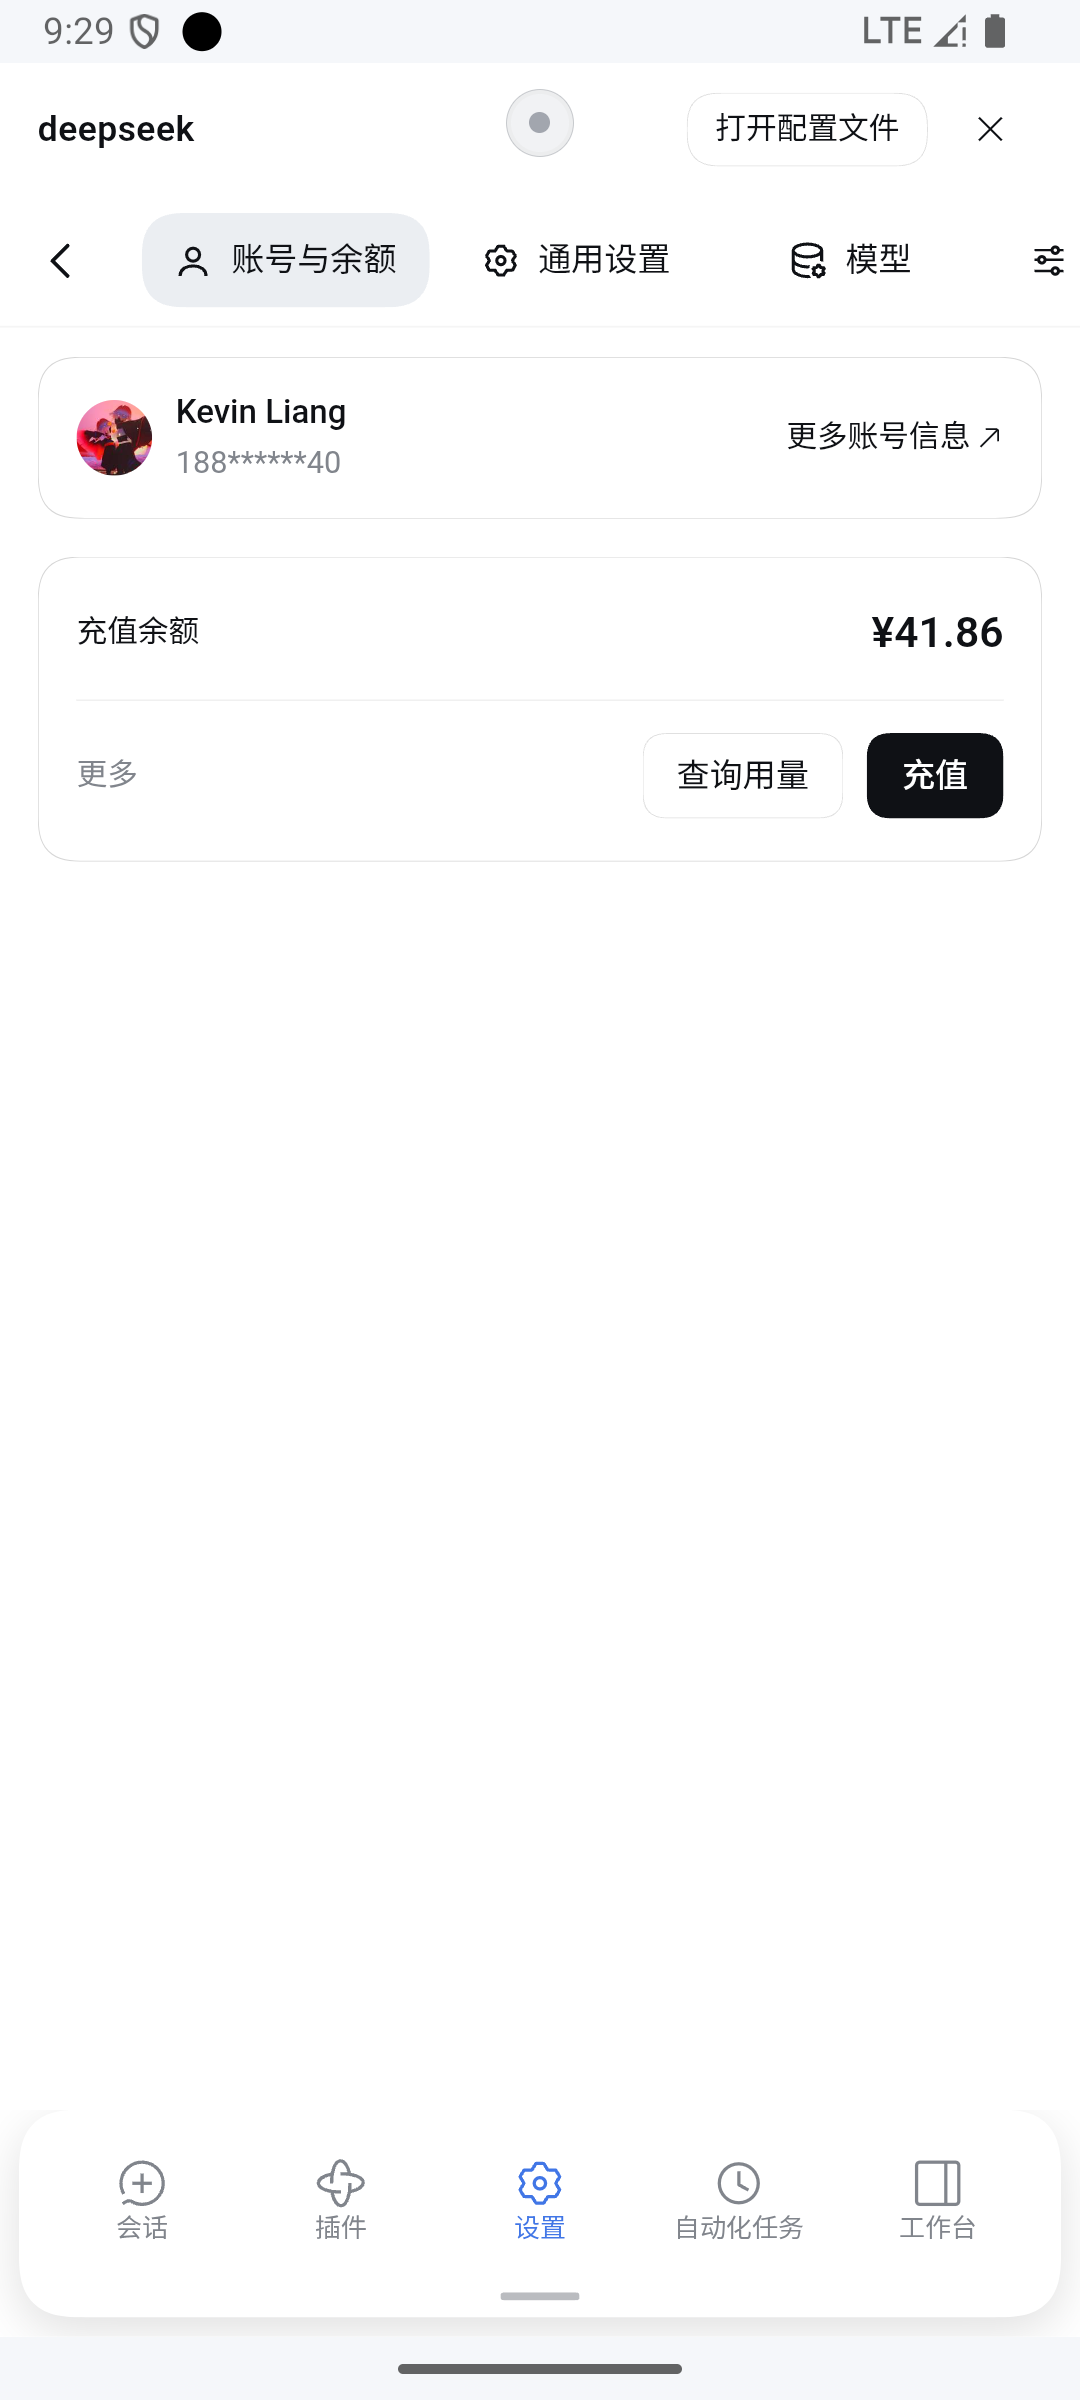
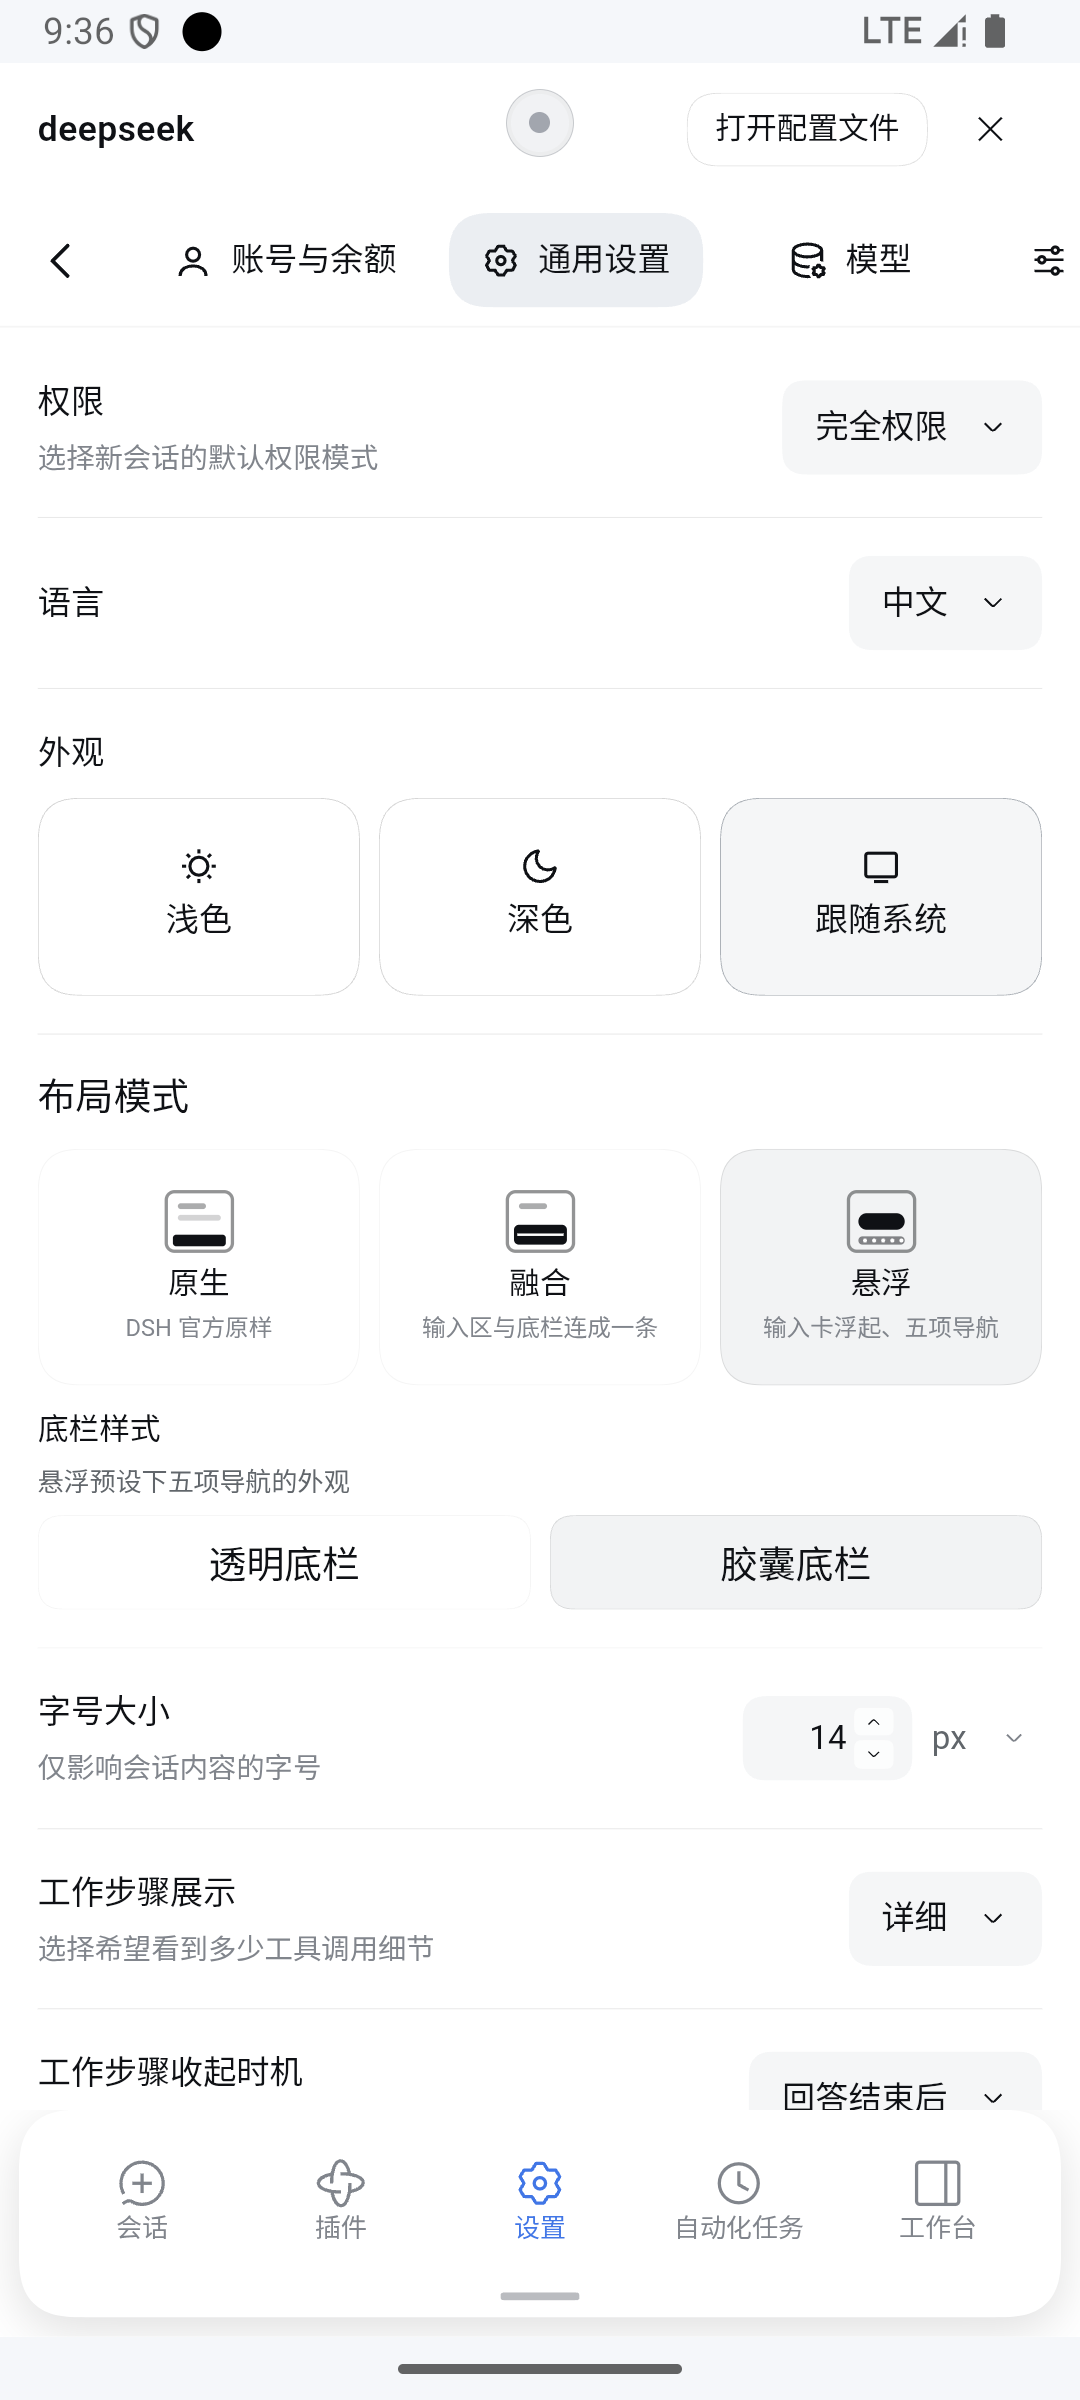
docs(capsule): replace settings screenshot with the general-settings tab
The new 07-settings.png shows 设置 -> 通用设置 (权限/语言/外观/布局模式/底栏样式 with 胶囊底栏 selected), which is the actual entry point for the capsule style; caption updated accordingly.

diff --git a/docs/preset-v2-capsule.md b/docs/preset-v2-capsule.md
@@ -122,7 +122,7 @@
   </tr>
   <tr>
     <td valign="top">换页后底栏仍五格：工作权限 / 模型两格由「更多」里的目的地补位，底栏不跳宽。</td>
-    <td valign="top">设置页里底栏与设置白面同底（无灰槽）、保留胶囊阴影；脚注的权限 / 模型文案只在会话页出现，其余页只留把手。</td>
+    <td valign="top">「通用设置」页：权限 / 语言 / 外观 / 布局模式 / <b>底栏样式（透明底栏 · 胶囊底栏）</b> —— 胶囊就在这里开启。底栏与设置白面同底（无灰槽）、保留胶囊阴影；脚注的权限 / 模型文案只在会话页出现，其余页只留把手。</td>
   </tr>
 </table>
 
